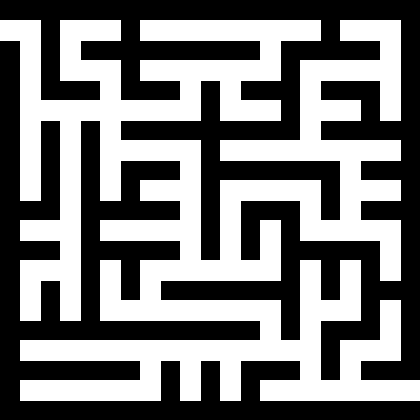
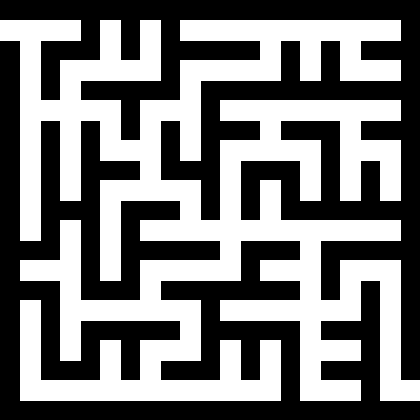
Added some css for the menu

diff --git a/maze_gui/src/styles/menu.css b/maze_gui/src/styles/menu.css
@@ -10,7 +10,7 @@
 }
 
 .menu-box .label {
-    -fx-font-size: 18px;
+    -fx-font-size: 12px;
     -fx-font-weight: bold;
     -fx-text-fill: #2d2d2d;
     -fx-effect: dropshadow(gaussian, rgba(255,255,255,0.7), 4, 0, 0, 1);

diff --git a/maze_gui/src/maze_gui/gui_main.java b/maze_gui/src/maze_gui/gui_main.java
@@ -72,7 +72,7 @@ public class gui_main extends Application{
 		mainScene.getStylesheets().add("/styles/try.css");
 		
 		VBox start = new VBox();
-		TextArea name =new TextArea();
+		TextArea name =new TextArea("Enter Your Name");
 		name.setMaxHeight(10);
 		Scene startScene = new Scene(start);
 
